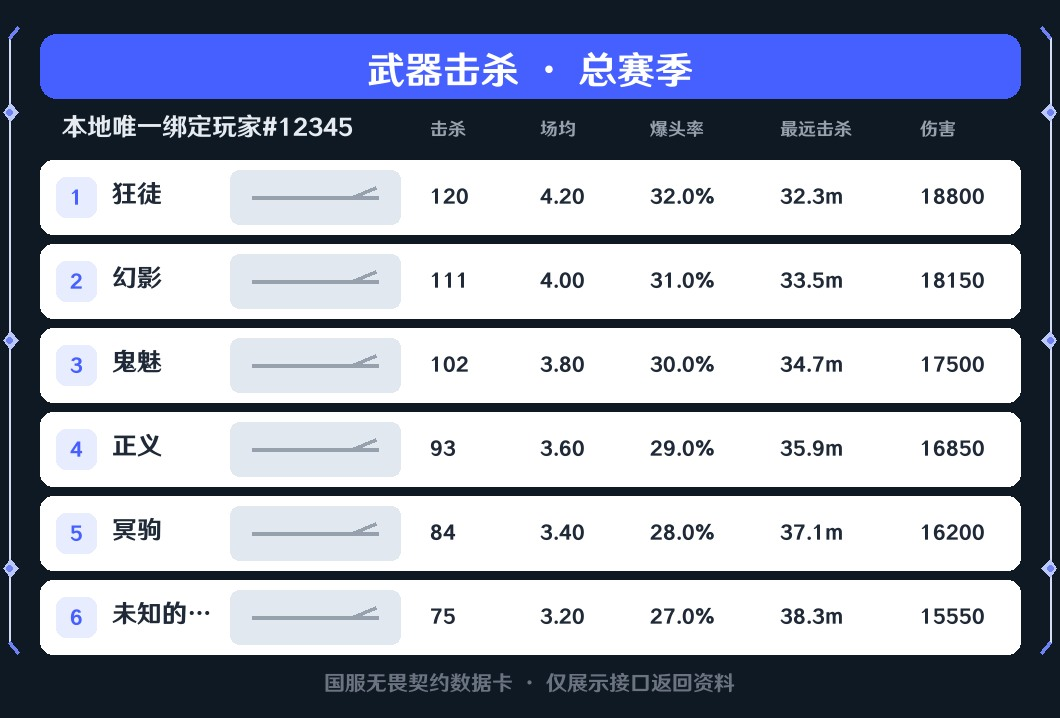
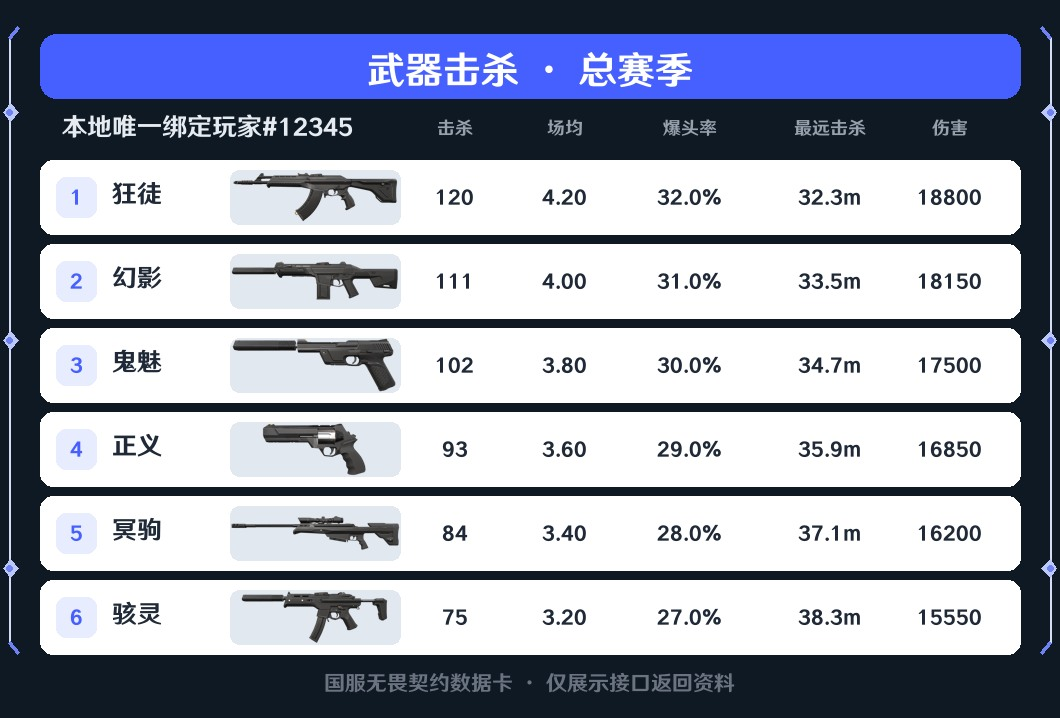
fix: address store review and weapon assets

diff --git a/nonebot_plugin_varolant/config.py b/nonebot_plugin_varolant/config.py
@@ -10,66 +10,39 @@
     VAROLANT_TIMEZONE=Asia/Shanghai
     VAROLANT_BOT_ID=123456789
 
-字段同时兼容不带 ``VAROLANT_`` 前缀的写法（``DEFAULT_LOGIN_MODE=…``）。
+所有配置项均使用 ``VAROLANT_`` 前缀，避免与其他插件配置冲突。
 """
 
-from typing import Optional
-
-from pydantic import BaseModel, Field, model_validator
+from pydantic import BaseModel, Field
 
 
 class Config(BaseModel):
     """varolant 插件配置。"""
 
-    default_login_mode: str = Field(
+    varolant_default_login_mode: str = Field(
         default="wx",
         description="发送「瓦app登录」不带参数时默认使用的掌瓦 App 登录方式（qq / wx）",
     )
-    monitor_time: str = Field(
+    varolant_monitor_time: str = Field(
         default="08:01",
         description="每日商店监控的执行时间，格式 HH:MM",
     )
-    timezone: str = Field(
+    varolant_timezone: str = Field(
         default="Asia/Shanghai",
         description="监控定时任务使用的时区",
     )
-    bot_id: str = Field(
+    varolant_bot_id: str = Field(
         default="",
         description="监控通知使用的机器人 QQ 号；留空则自动取当前在线的第一个机器人",
     )
-    login_callback_url: str = Field(
+    varolant_login_callback_url: str = Field(
         default="http://connect.qq.com",
         description="QQ 扫码登录的业务回调地址（s_url），一般无需修改",
     )
-    login_u1_url: str = Field(
+    varolant_login_u1_url: str = Field(
         default="http://connect.qq.com",
         description="QQ 扫码登录轮询的 u1 地址，一般无需修改",
     )
-
-    # NoneBot 只会从环境中收集模型真实声明的字段。把带前缀字段显式声明出来，
-    # 再在校验后覆盖兼容裸名；仅用 validation_alias 会导致 VAROLANT_* 被静默忽略。
-    varolant_default_login_mode: Optional[str] = Field(default=None, exclude=True)
-    varolant_monitor_time: Optional[str] = Field(default=None, exclude=True)
-    varolant_timezone: Optional[str] = Field(default=None, exclude=True)
-    varolant_bot_id: Optional[str] = Field(default=None, exclude=True)
-    varolant_login_callback_url: Optional[str] = Field(default=None, exclude=True)
-    varolant_login_u1_url: Optional[str] = Field(default=None, exclude=True)
-
-    @model_validator(mode="after")
-    def _apply_prefixed_values(self) -> "Config":
-        """带 ``VAROLANT_`` 前缀的配置优先于兼容裸名。"""
-        for name in (
-            "default_login_mode",
-            "monitor_time",
-            "timezone",
-            "bot_id",
-            "login_callback_url",
-            "login_u1_url",
-        ):
-            value = getattr(self, f"varolant_{name}")
-            if value is not None:
-                setattr(self, name, value)
-        return self
 
 
 def normalize_login_mode(mode: str) -> str:

diff --git a/nonebot_plugin_varolant/matchers/val.py b/nonebot_plugin_varolant/matchers/val.py
@@ -73,8 +73,8 @@ async def _wegame_bind(user_id: str) -> None:
 
 async def _qq_app_bind(user_id: str) -> None:
     await app_cmd.send("正在生成掌瓦 App QQ 登录二维码，请稍候...", reply_message=True)
-    ctx = await generate_qr_code(plugin_config.login_callback_url,
-                                 plugin_config.login_u1_url)
+    ctx = await generate_qr_code(plugin_config.varolant_login_callback_url,
+                                 plugin_config.varolant_login_u1_url)
     if not ctx:
         await app_cmd.finish("生成登录二维码失败，请稍后重试", reply_message=True)
         return
@@ -87,7 +87,7 @@ async def _qq_app_bind(user_id: str) -> None:
         login_data = await wait_for_login_result(
             session=session, ptqrtoken=ctx["ptqrtoken"],
             login_sig=ctx.get("login_sig", ""),
-            login_u1=ctx.get("u1_url", plugin_config.login_u1_url),
+            login_u1=ctx.get("u1_url", plugin_config.varolant_login_u1_url),
             referer_url=ctx.get("login_url", ""),
             pt_openlogin_data=ctx.get("pt_openlogin_data", ""),
             aegis_uid=ctx.get("aegis_uid", ""), jsver=ctx.get("jsver", "28d22679"),
@@ -143,8 +143,9 @@ async def _wx_app_bind(user_id: str) -> None:
 
 
 def _help_image() -> bytes:
-    return build_help_image(plugin_config.default_login_mode,
-                            plugin_config.monitor_time, plugin_config.timezone)
+    return build_help_image(plugin_config.varolant_default_login_mode,
+                            plugin_config.varolant_monitor_time,
+                            plugin_config.varolant_timezone)
 
 
 @help_cmd.handle()
@@ -253,7 +254,7 @@ async def _handle_app(event: MessageEvent, args: Tuple[Any, ...] = RegexGroup())
     if raw and (raw in HELP_ALIASES or lower in HELP_ALIASES):
         await app_cmd.finish(MessageSegment.image(_help_image()), reply_message=True)
     mode = normalize_login_mode(raw) if raw else (
-        normalize_login_mode(plugin_config.default_login_mode) or "wx"
+        normalize_login_mode(plugin_config.varolant_default_login_mode) or "wx"
     )
     if raw and not mode:
         await app_cmd.finish("参数无效：瓦app登录 qq / 瓦app登录 wx / 瓦app登录 清除", reply_message=True)

diff --git a/nonebot_plugin_varolant/core/render.py b/nonebot_plugin_varolant/core/render.py
@@ -1874,10 +1874,11 @@ def build_weapon_image(player: PlayerBrief, weapons: List[Dict[str, Any]]) -> by
     draw.text((margin + 22, 112),
               _truncate_text(draw, player.display, main_font, 350),
               fill=(230, 235, 241), font=main_font)
-    headers = [(430, "击杀"), (540, "场均"), (650, "爆头率"),
-               (780, "最远击杀"), (920, "伤害")]
+    headers = [(455, "击杀"), (565, "场均"), (690, "爆头率"),
+               (830, "最远击杀"), (950, "伤害")]
     for x, label in headers:
-        draw.text((x, 118), label, fill=(151, 161, 174), font=tiny_font)
+        draw.text((x, 128), label, fill=(151, 161, 174), font=tiny_font,
+                  anchor="mm")
     y = header_h + gap
     if not rows:
         _rounded_card(draw, (margin, y, width - margin, y + row_h), radius=13)
@@ -1900,14 +1901,15 @@ def build_weapon_image(player: PlayerBrief, weapons: List[Dict[str, Any]]) -> by
         if distance > 500:
             distance /= 100
         values = [
-            (430, str(_int_render(weapon.get("kill")))),
-            (540, f"{float(weapon.get('kill_avg') or 0):.2f}"),
-            (650, f"{float(weapon.get('head_shot_rate') or 0) * 100:.1f}%"),
-            (780, f"{distance:.1f}m"),
-            (920, f"{float(weapon.get('damage') or 0):.0f}"),
+            (455, str(_int_render(weapon.get("kill")))),
+            (565, f"{float(weapon.get('kill_avg') or 0):.2f}"),
+            (690, f"{float(weapon.get('head_shot_rate') or 0) * 100:.1f}%"),
+            (830, f"{distance:.1f}m"),
+            (950, f"{float(weapon.get('damage') or 0):.0f}"),
         ]
         for x, value in values:
-            draw.text((x, y + 23), value, fill=_TITLE, font=small_font)
+            draw.text((x, y + row_h // 2), value, fill=_TITLE,
+                      font=small_font, anchor="mm")
         y += row_h + gap
     _draw_tip(draw, width, height - footer_h + 16,
               "国服无畏契约数据卡 · 仅展示接口返回资料", small_font)

diff --git a/nonebot_plugin_varolant/__init__.py b/nonebot_plugin_varolant/__init__.py
@@ -63,26 +63,31 @@ def _setup_scheduler() -> None:
     """按配置把每日监控挂到 apscheduler。"""
     hour, minute = 8, 1
     try:
-        hour_s, minute_s = str(plugin_config.monitor_time or "08:01").split(":", 1)
+        hour_s, minute_s = str(
+            plugin_config.varolant_monitor_time or "08:01"
+        ).split(":", 1)
         hour, minute = int(hour_s), int(minute_s)
         if not (0 <= hour <= 23 and 0 <= minute <= 59):
             raise ValueError
     except (ValueError, AttributeError):
         logger.warning(
-            f"monitor_time 配置无效: {plugin_config.monitor_time}，回退为 08:01"
+            "varolant_monitor_time 配置无效: "
+            f"{plugin_config.varolant_monitor_time}，回退为 08:01"
         )
         hour, minute = 8, 1
-        plugin_config.monitor_time = "08:01"
+        plugin_config.varolant_monitor_time = "08:01"
 
     from apscheduler.triggers.cron import CronTrigger
 
-    tz_name = plugin_config.timezone or "Asia/Shanghai"
+    tz_name = plugin_config.varolant_timezone or "Asia/Shanghai"
     try:
         trigger = CronTrigger(hour=hour, minute=minute, timezone=tz_name)
     except Exception:
-        logger.warning(f"timezone 配置无效: {tz_name}，回退为 Asia/Shanghai")
+        logger.warning(
+            f"varolant_timezone 配置无效: {tz_name}，回退为 Asia/Shanghai"
+        )
         tz_name = "Asia/Shanghai"
-        plugin_config.timezone = tz_name
+        plugin_config.varolant_timezone = tz_name
         trigger = CronTrigger(hour=hour, minute=minute, timezone="Asia/Shanghai")
 
     scheduler.add_job(

diff --git a/nonebot_plugin_varolant/matchers/stats.py b/nonebot_plugin_varolant/matchers/stats.py
@@ -592,12 +592,20 @@ async def _handle_weapon(event: MessageEvent):
         meta = gameinfo.weapon_meta(await gameinfo.load_gameinfo())
         urls: List[str] = []
         for weapon in weapons:
-            raw_name = str(weapon.get("name") or "")
-            weapon_id = str(
-                weapon.get("guid") or weapon.get("weaponId")
-                or weapon.get("weapon_id") or raw_name
-            ).lower()
-            info = meta.get(weapon_id) or meta.get(raw_name.lower()) or {}
+            raw_name = str(
+                weapon.get("name") or weapon.get("weaponName")
+                or weapon.get("weapon_name") or ""
+            )
+            lookup_keys = (
+                weapon.get("guid"), weapon.get("weaponGuid"),
+                weapon.get("weapon_guid"), weapon.get("weaponId"),
+                weapon.get("weapon_id"), raw_name,
+            )
+            info = next(
+                (meta[str(key).strip().lower()] for key in lookup_keys
+                 if key and str(key).strip().lower() in meta),
+                {},
+            )
             weapon["name"] = info.get("name") or (
                 raw_name if len(raw_name) < 24 else f"武器-{raw_name[:8]}"
             )

diff --git a/nonebot_plugin_varolant/matchers/monitor.py b/nonebot_plugin_varolant/matchers/monitor.py
@@ -42,8 +42,8 @@ async def _handle_monitor(event: MessageEvent, args: Tuple[Any, ...] = RegexGrou
             "商店监控 开启 - 启用自动查询\n"
             "商店监控 关闭 - 停用自动查询\n\n"
             f"当前自动查询状态：{auto_check_status}\n"
-            f"监控时间：{plugin_config.monitor_time}\n"
-            f"时区：{plugin_config.timezone}"
+            f"监控时间：{plugin_config.varolant_monitor_time}\n"
+            f"时区：{plugin_config.varolant_timezone}"
         )
         await monitor_cmd.finish(help_text, reply_message=True)
 
@@ -104,8 +104,8 @@ async def _handle_monitor(event: MessageEvent, args: Tuple[Any, ...] = RegexGrou
         await database.update_auto_check(user_id, 1)
         await monitor_cmd.finish(
             f"已开启自动查询\n"
-            f"每天 {plugin_config.monitor_time} "
-            f"({plugin_config.timezone}) 执行\n"
+            f"每天 {plugin_config.varolant_monitor_time} "
+            f"({plugin_config.varolant_timezone}) 执行\n"
             "监控到上架后会自动通知你",
             reply_message=True,
         )

diff --git a/tests/test_battle_state.py b/tests/test_battle_state.py
@@ -6,7 +6,7 @@ from unittest.mock import patch
 
 import nonebot
 
-nonebot.init()
+nonebot.init(driver="~none")
 
 from nonebot_plugin_varolant.core import gameinfo, names, render
 from nonebot_plugin_varolant.core.render import (
@@ -157,6 +157,19 @@ class BattleTeamStateTest(unittest.TestCase):
             [{"name": "未知的超长武器名称", "kill": 1, "image_path": "MISSING"}],
         )
         self.assertTrue(rendered.startswith(b"\xff\xd8"))
+
+    def test_weapon_meta_can_resolve_chinese_api_name(self):
+        meta = gameinfo.weapon_meta({"weapons": [{
+            "guid": "weapon-guid",
+            "name": {"cn": "狂徒", "en": "Vandal"},
+            "type": {"cn": "步枪", "en": "Rifle"},
+            "picture_url": "https://example.invalid/vandal.png",
+        }]})
+        self.assertEqual(meta["狂徒"]["name"], "狂徒")
+        self.assertEqual(
+            meta["狂徒"]["picture_url"],
+            "https://example.invalid/vandal.png",
+        )
 
     def test_all_matcher_messages_quote_the_trigger(self):
         matcher_dir = Path(__file__).parents[1] / "nonebot_plugin_varolant" / "matchers"

diff --git a/nonebot_plugin_varolant/paths.py b/nonebot_plugin_varolant/paths.py
@@ -1,6 +1,7 @@
 import hashlib
 import re
 import shutil
+from functools import lru_cache
 from pathlib import Path
 
 from nonebot import require
@@ -14,6 +15,16 @@ _LEGACY_DATA_DIR = _PLUGIN_ROOT / "data"
 _DATA_MIGRATED = False
 
 
+@lru_cache(maxsize=1)
+def _data_dir() -> Path:
+    return localstore.get_plugin_data_dir()
+
+
+@lru_cache(maxsize=1)
+def _cache_dir() -> Path:
+    return localstore.get_plugin_cache_dir()
+
+
 def plugin_root() -> Path:
     """插件包根目录（nonebot_plugin_varolant/）。"""
     return _PLUGIN_ROOT
@@ -21,7 +32,7 @@ def plugin_root() -> Path:
 
 def data_dir() -> Path:
     global _DATA_MIGRATED
-    path = localstore.get_plugin_data_dir()
+    path = _data_dir()
     if not _DATA_MIGRATED and _LEGACY_DATA_DIR.exists():
         for source in _LEGACY_DATA_DIR.iterdir():
             target = path / source.name
@@ -32,7 +43,7 @@ def data_dir() -> Path:
 
 
 def cache_dir() -> Path:
-    return localstore.get_plugin_cache_dir()
+    return _cache_dir()
 
 
 def temp_user_dir(user_id: str) -> Path:

diff --git a/nonebot_plugin_varolant/core/monitor.py b/nonebot_plugin_varolant/core/monitor.py
@@ -66,8 +66,8 @@ def _pick_bot(config: Config):
     bots = get_bots()
     if not bots:
         return None
-    if config.bot_id and config.bot_id in bots:
-        return bots[config.bot_id]
+    if config.varolant_bot_id and config.varolant_bot_id in bots:
+        return bots[config.varolant_bot_id]
     # 未配置或配置的号当前不在线时，退化为第一个在线机器人
     return next(iter(bots.values()))
 

diff --git a/nonebot_plugin_varolant/core/gameinfo.py b/nonebot_plugin_varolant/core/gameinfo.py
@@ -160,6 +160,9 @@ def weapon_meta(data: Dict[str, Any]) -> Dict[str, Dict[str, str]]:
         english_key = english.lower()
         if english_key:
             out[english_key] = info
+        chinese_key = chinese.strip().lower()
+        if chinese_key:
+            out[chinese_key] = info
         if english_key == "tacticalknife":
             out["melee"] = info
     return out

diff --git a/nonebot_plugin_varolant/core/names.py b/nonebot_plugin_varolant/core/names.py
@@ -145,6 +145,7 @@ _MODE_NAMES = {
     "deathmatch": "团队死斗", "ggteam": "武装升级", "onefa": "非排位",
     "gungame": "枪王之王", "hurm": "极速竞技", "swiftplay": "超速冲点",
     "premier": "冠军巡回赛", "custom": "自定义", "newmap": "一般模式",
+    "skirmish2v2": "斗牛2v2",
 }
 
 

diff --git a/tests/test_wegame_auth.py b/tests/test_wegame_auth.py
@@ -8,7 +8,7 @@ from unittest.mock import AsyncMock, patch
 
 import nonebot
 
-nonebot.init()
+nonebot.init(driver="~none")
 
 from nonebot_plugin_varolant.core import database, mval, store, wegame
 from nonebot_plugin_varolant.core.wegame import WegameClient
